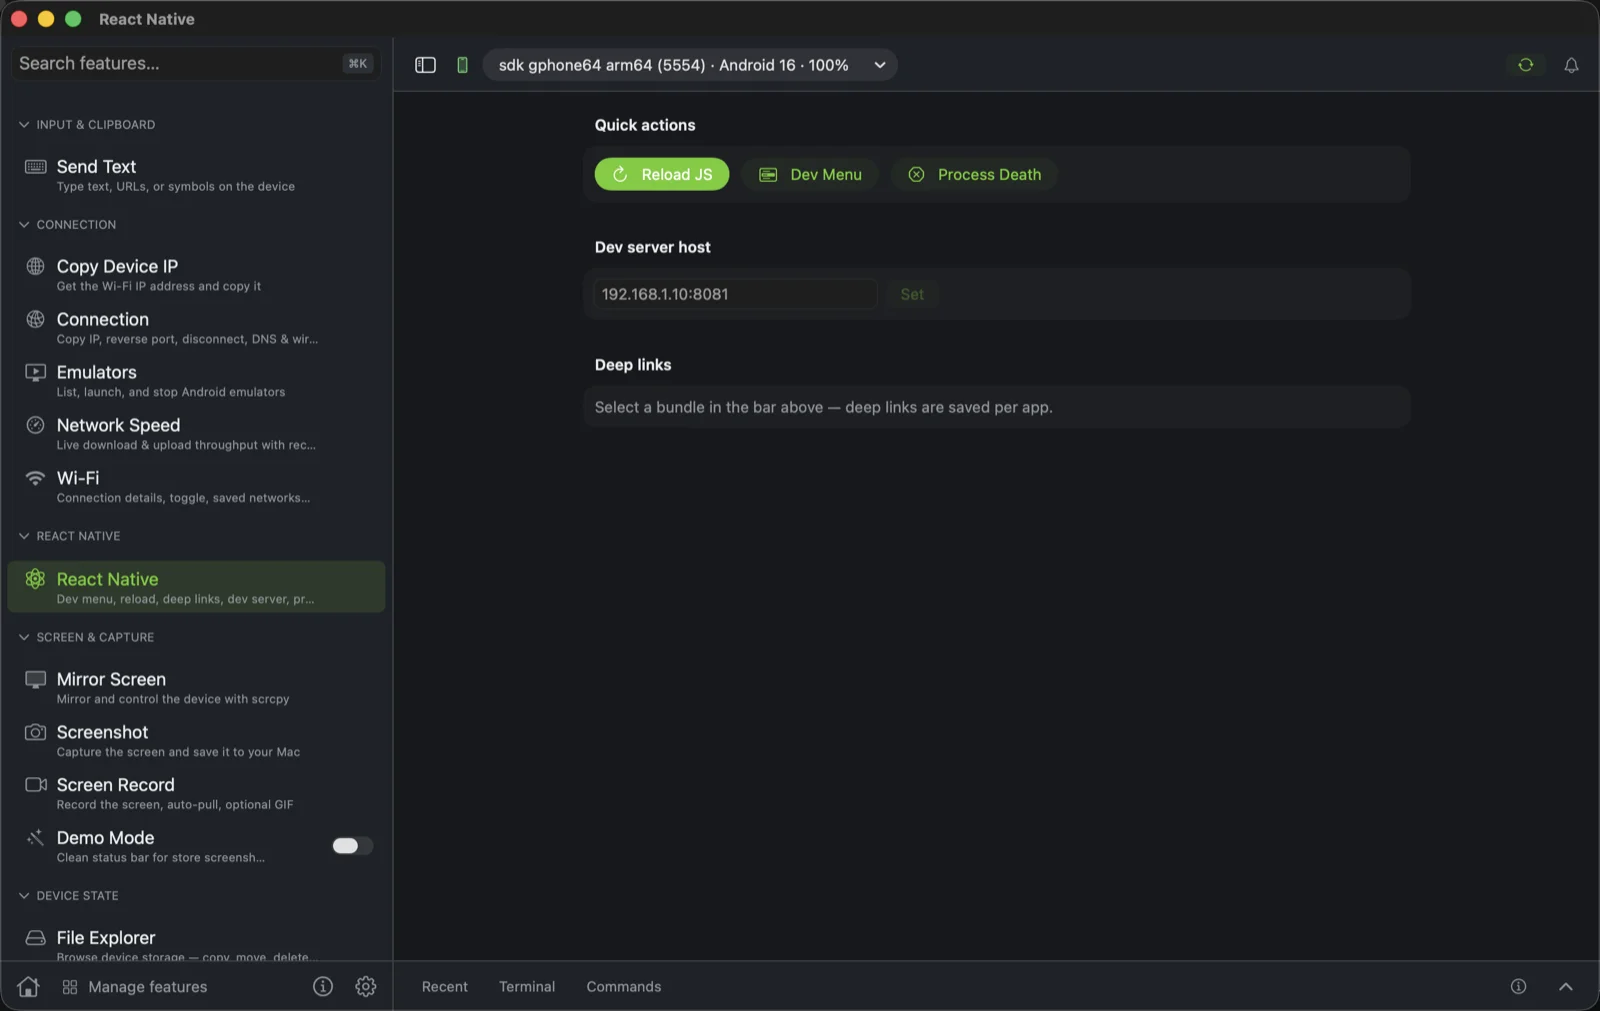
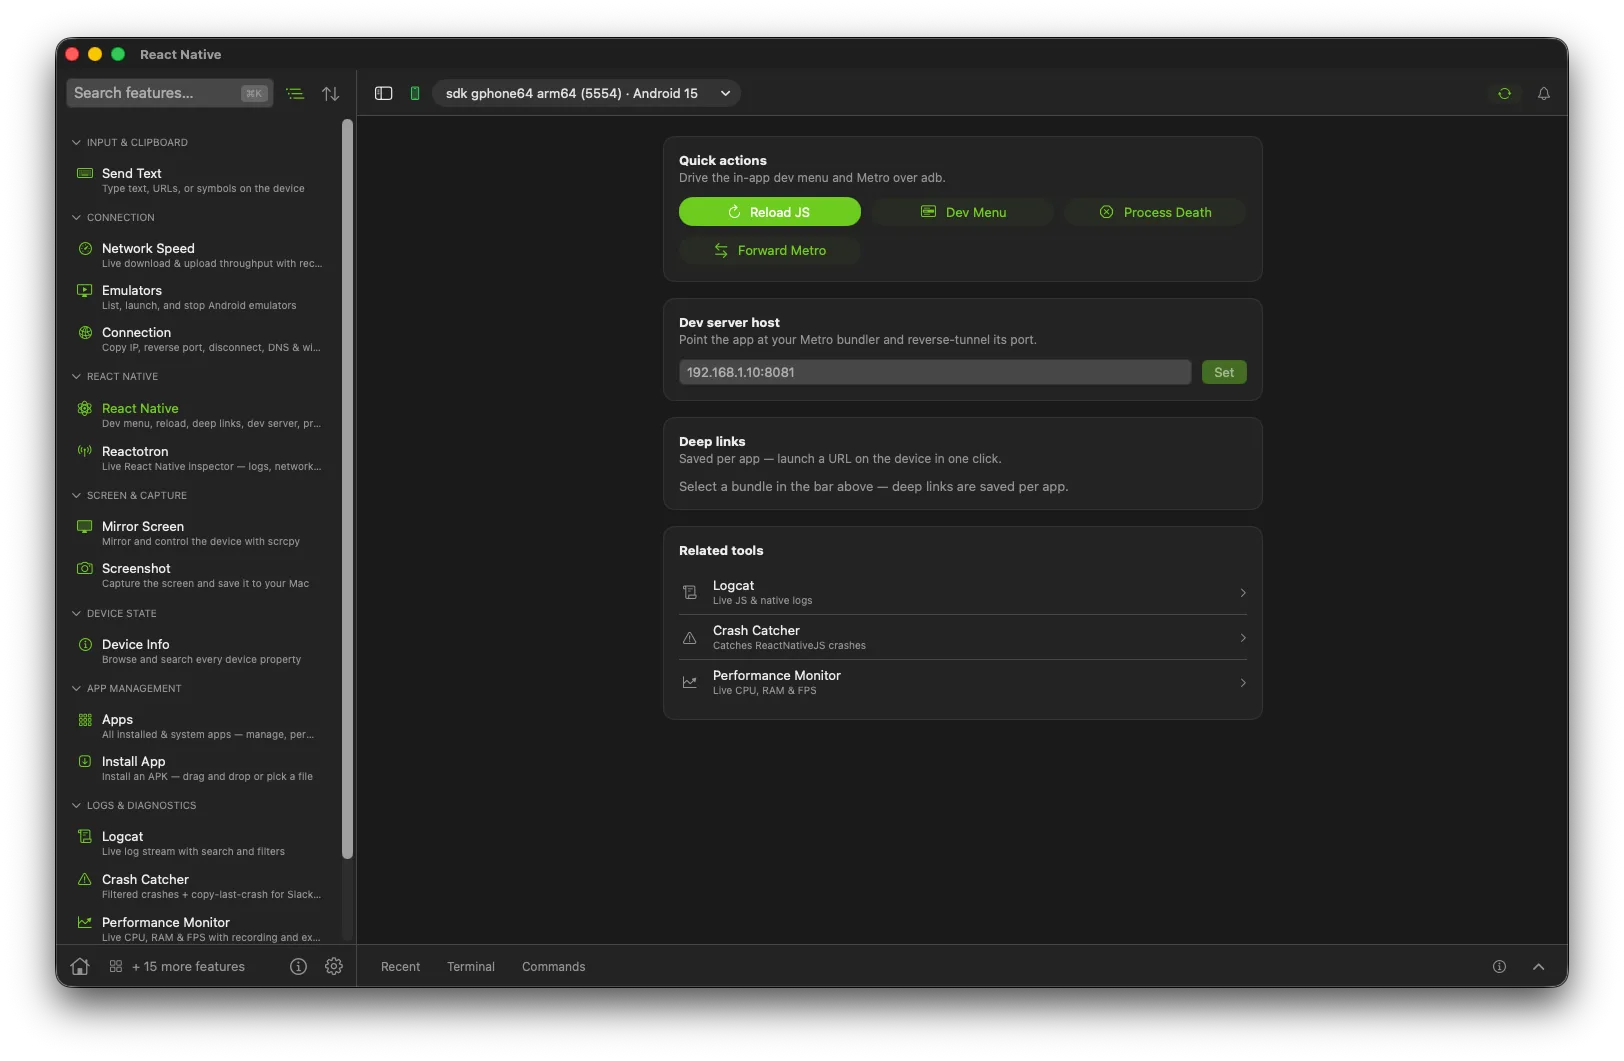
Refresh the website for v2.6.2 and surface the role guides
- Replace the React Native and Feature Catalog screenshots with the
  current v2.6.2 UI (screenshot-react.webp, screenshot-catalog.webp).
- Add a "Built for the way you work" section, plus a Guides nav link,
  linking the homepage to all five audience pages (React Native, Android
  developers, QA & testers, support teams, scrcpy GUI). They were only
  reachable from the footer before.
- Update stale content: version 2.6.1 → 2.6.2; the leftover "45" tool
  counts in the trust strip and palette footer → 48 (the rest of the page
  already said 48); the ADBKit test count 186 → 350; and a v2.6.2
  changelog entry (the twelfth release).

diff --git a/site/index.html b/site/index.html
@@ -44,7 +44,7 @@
     "description": "A free, open-source macOS command palette for Android & React Native debugging over adb: screen mirroring, logcat, file explorer, performance monitoring, app management — 48 tools in all.",
     "url": "https://droidective.com/",
     "downloadUrl": "https://github.com/Droidective/Droidective/releases/latest",
-    "softwareVersion": "2.6.1",
+    "softwareVersion": "2.6.2",
     "screenshot": "https://droidective.com/assets/screenshot-home.png",
     "license": "https://github.com/Droidective/Droidective/blob/main/LICENSE",
     "offers": { "@type": "Offer", "price": "0", "priceCurrency": "USD" },
@@ -289,6 +289,14 @@
     }
     .card .sh::before { content: "$ "; color: var(--faint); }
 
+    /* ---- Role / guide cards (link cards) ---- */
+    a.role-card { display: flex; flex-direction: column; }
+    .role-card .go {
+      margin-top: auto; padding-top: 6px; font-family: var(--mono); font-size: 12.5px;
+      font-weight: 500; color: var(--green); transition: color .15s;
+    }
+    .role-card:hover .go { color: var(--green-bright); }
+
     /* ---- Watch it work ---- */
     .window {
       border-radius: 16px; overflow: hidden; border: 1px solid var(--line-2);
@@ -464,6 +472,7 @@
         <a href="#features">Features</a>
         <a href="#screenshots">Screens</a>
         <a href="#how">How it works</a>
+        <a href="#for-you">Guides</a>
         <a href="#changelog">Changelog</a>
         <a href="#faq">FAQ</a>
         <a href="https://github.com/Droidective/Droidective">GitHub</a>
@@ -486,7 +495,7 @@
           <a class="btn btn-primary" data-dl-latest href="https://github.com/Droidective/Droidective/releases/latest"><svg class="ic"><use href="#ic-dl"/></svg> Download for macOS</a>
           <a class="btn btn-ghost" href="https://github.com/Droidective/Droidective"><svg class="ic"><use href="#ic-star"/></svg> Star on GitHub</a>
         </div>
-        <p class="fineprint">$ <span>requires Android adb · auto-updates via Sparkle · v2.6.1</span></p>
+        <p class="fineprint">$ <span>requires Android adb · auto-updates via Sparkle · v2.6.2</span></p>
       </div>
 
       <div class="palette reveal" aria-hidden="true">
@@ -511,7 +520,7 @@
         </ul>
         <div class="palette-foot">
           <span><b>↩</b> run</span><span><b>⌘K</b> search</span><span><b>esc</b> close</span>
-          <span style="margin-left:auto"><b>45</b> tools</span>
+          <span style="margin-left:auto"><b>48</b> tools</span>
         </div>
       </div>
     </div>
@@ -519,7 +528,7 @@
 
   <section class="trust">
     <div class="wrap trust-row">
-      <div class="trust-item"><div class="trust-num g">45</div><div class="trust-lbl">built-in tools</div></div>
+      <div class="trust-item"><div class="trust-num g">48</div><div class="trust-lbl">built-in tools</div></div>
       <div class="trust-item"><div class="trust-num">⌘K</div><div class="trust-lbl">command palette</div></div>
       <div class="trust-item"><div class="trust-num">MIT</div><div class="trust-lbl">open source</div></div>
       <div class="trust-item"><div class="trust-num">$0</div><div class="trust-lbl">free, forever</div></div>
@@ -603,7 +612,7 @@
     </div>
 
     <div class="showcase flip reveal">
-      <div class="shot"><img src="assets/screenshot-react.webp" alt="Droidective React Native hub — reload JS, open the dev menu, force process death, and set the Metro dev-server host" width="1600" height="1012" loading="lazy" /></div>
+      <div class="shot"><img src="assets/screenshot-react.webp" alt="Droidective React Native hub — reload JS, open the dev menu, force process death, forward Metro, and set the dev-server host" width="1624" height="1061" loading="lazy" /></div>
       <div>
         <span class="eyebrow">react native</span>
         <h3>Made for React Native</h3>
@@ -662,15 +671,59 @@ Pixel 8     device</pre>
     </div>
   </section>
 
+  <section class="section wrap" id="for-you">
+    <div class="section-head center reveal">
+      <span class="eyebrow">deep dives</span>
+      <h2>Built for the way you work.</h2>
+      <p>Droidective fits a few different workflows. Here's the guide for yours.</p>
+    </div>
+    <div class="feature-grid">
+      <a class="card role-card reveal" href="/react-native-debugger.html">
+        <div class="card-ic"><svg><use href="#ic-react"/></svg></div>
+        <h3>React Native debugging</h3>
+        <p>Built-in Reactotron, the dev menu, JS reload, and Metro port forwarding — one RN hub, no terminal.</p>
+        <span class="go">Open the RN guide →</span>
+      </a>
+      <a class="card role-card reveal" href="/for-android-developers.html">
+        <div class="card-ic"><svg><use href="#ic-search"/></svg></div>
+        <h3>Android developers</h3>
+        <p>Tail logcat, watch performance, browse device files, and drive apps — every adb command behind ⌘K.</p>
+        <span class="go">For Android developers →</span>
+      </a>
+      <a class="card role-card reveal" href="/for-qa-and-testers.html">
+        <div class="card-ic"><svg><use href="#ic-bug"/></svg></div>
+        <h3>QA &amp; testers</h3>
+        <p>Reproduce, capture, and report bugs in minutes — fake state, mark up a screenshot, pull a full bug report.</p>
+        <span class="go">For QA &amp; testers →</span>
+      </a>
+      <a class="card role-card reveal" href="/for-support-teams.html">
+        <div class="card-ic"><svg><use href="#ic-activity"/></svg></div>
+        <h3>Support teams</h3>
+        <p>See the device, pull the diagnostics, close the ticket — mirror the screen and grab logs, no adb needed.</p>
+        <span class="go">For support teams →</span>
+      </a>
+      <a class="card role-card reveal" href="/scrcpy-gui-mac.html">
+        <div class="card-ic"><svg><use href="#ic-cast"/></svg></div>
+        <h3>scrcpy GUI for Mac</h3>
+        <p>A native GUI for scrcpy — mirror, control, and record your Android screen, with ffmpeg bundled in.</p>
+        <span class="go">scrcpy GUI for Mac →</span>
+      </a>
+    </div>
+  </section>
+
   <section class="section wrap" id="changelog">
     <div class="section-head center reveal">
       <span class="eyebrow">changelog</span>
       <h2>Shipped, and still moving.</h2>
-      <p>Eleven releases since the first public build — automatic in-app updates since v2.1.0, and Apple-notarized builds since v2.4.0.</p>
+      <p>Twelve releases since the first public build — automatic in-app updates since v2.1.0, and Apple-notarized builds since v2.4.0.</p>
     </div>
     <div class="timeline reveal">
       <div class="rel latest">
-        <div class="rel-head"><span class="rel-ver">v2.6.1</span><span class="rel-tag">latest</span><span class="rel-date">Jun 2026</span></div>
+        <div class="rel-head"><span class="rel-ver">v2.6.2</span><span class="rel-tag">latest</span><span class="rel-date">Jun 2026</span></div>
+        <p><b>Security &amp; stability hardening</b> — shell-quoted device commands, bounded screen-mirror decoders, and cancelled actions that stop their adb child — plus a <b>leave guard</b> that confirms before discarding an active recording or unsaved edit, and <b>opening an APK from Finder</b> now previews its name, version &amp; SDK before installing.</p>
+      </div>
+      <div class="rel">
+        <div class="rel-head"><span class="rel-ver">v2.6.1</span><span class="rel-date">Jun 2026</span></div>
         <p><b>Custom command presets</b> — a library of common adb commands to add and run — plus a round of polish: Reactotron copy-as-cURL, per-pane export, and a search affordance; plain-English <b>install errors</b>; a dismissable toast; and <b>mirroring that survives device rotation</b>.</p>
       </div>
       <div class="rel">
@@ -756,7 +809,7 @@ Pixel 8     device</pre>
     <div class="contrib">
       <div class="panel reveal">
         <h3>Contribute</h3>
-        <p>All logic lives in a platform-agnostic Swift package (<code class="mono" style="color:var(--green-dim)">ADBKit</code>) with 186 passing tests; the SwiftUI shell stays thin. Bug reports, feature ideas, and PRs are all welcome.</p>
+        <p>All logic lives in a platform-agnostic Swift package (<code class="mono" style="color:var(--green-dim)">ADBKit</code>) with 350 passing tests; the SwiftUI shell stays thin. Bug reports, feature ideas, and PRs are all welcome.</p>
         <pre><span class="c">$</span> brew install xcodegen
 <span class="c">$</span> make test    <span style="color:var(--faint)"># ADBKit unit tests — no device needed</span>
 <span class="c">$</span> make run     <span style="color:var(--faint)"># build &amp; launch</span></pre>